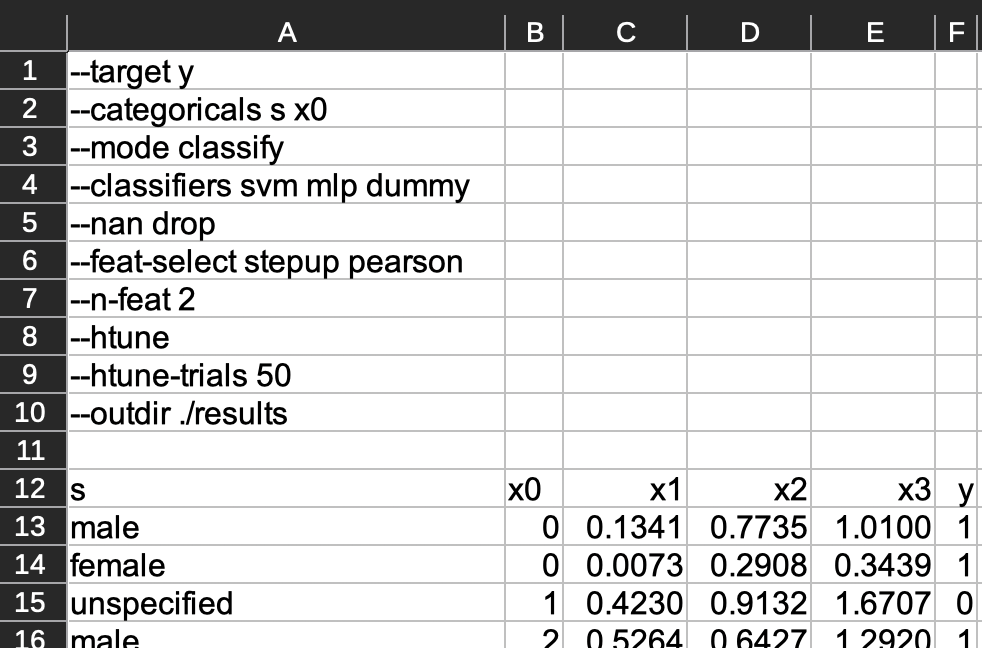
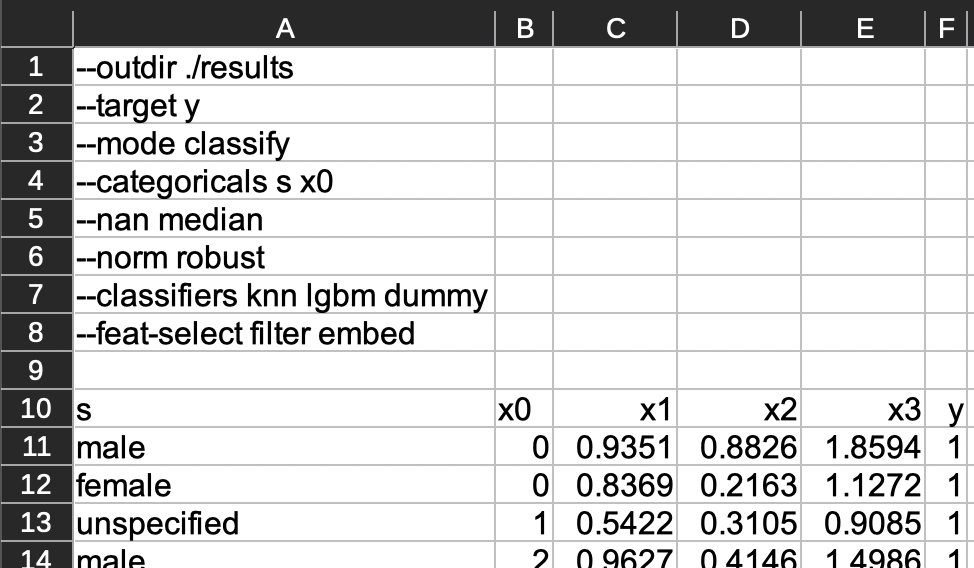
wip - README

Changed region(s): [[0.0, 0.0299, 1.0, 1.0]]

diff --git a/README.md b/README.md
@@ -131,23 +131,16 @@ Run a classification analysis on the data in `small_classifier_data.json`:
 
 ```bash
 python df-analyze.py \
-    --df data/small_classifier_data.json \
-    --mode classify \
-    --classifiers rf svm dtree \
-    --feat-select pca pearson none \
-    --n-feat 5 \
-    --test-val holdout \
-    --test-val-sizes 0.3 \
-    --outdir ./fast_test_results
+    --df=data/small_classifier_data.json \
+    --outdir=./demo_results \
+    --mode=classify \
+    --classifiers knn lgbm rf lr sgd mlp dummy \
+    --embed-select none linear lgbm \
+    --feat-select wrap filter embed
 ```
 
 should work and run quite quickly on the tiny toy dataset included in the repo.
-This will produce a lot of terminal output from Optuna, so if you don't want to
-see as much add the `--verbosity 0` option to above.
-
-Currently, `classifier` can be one of `svm`, `rf`, `mlp`, `bag` or `dtree`. If
-the `--step-up` argument is omitted, instead analyses for other feature
-selection methods are used.
+This will produce a lot of terminal output.
 
 ### Using a `df-analyze`-formatted Spreadsheet
 
@@ -169,16 +162,14 @@ Another valid Excel spreadsheet:
 Example of a `.csv` spreadsheet formatted for `df-analyze`:
 
 ```csv
---categoricals s x0
+--outdir ./results
 --target y
 --mode classify
---classifiers svm mlp dummy
---nan drop
---feat-select stepup pearson
---n-feat 2
---htune
---htune-trials 50
---outdir ./results
+--categoricals s x0
+--classifiers knn lgbm dummy
+--nan median
+--norm robust
+--feat-select wrap embed
 
 
 s,x0,x1,x2,x3,y
@@ -192,25 +183,23 @@ male,2,0.570184,0.289003,1.176338,1
 If you have not been introduced to command-line interfaces (CLIs) before,
 this convention might seem a bit odd, but `df-analyze` primarily functions as
 a CLI program. The logic is that CLI options (e.g. `--mode`) and their
-parameters or values (e.g. `classify`) are specified one-per-line in the file
-top section / header, with spaces separating parameters (e.g. the `svm mlp
-dummy` parameters passed to the `--classifiers` option), and with at least one
-empty line separating these options and parameters from the actual tabular
-data.
+parameters or values (e.g. the `classify` in `--mode classify`) are specified
+one-per-line in the file top section / header, with spaces separating
+parameters (e.g. the `knn lgbm dummy` parameters passed to the `--classifiers`
+option), and with at least one empty line separating these options and
+parameters from the actual tabular data.
 
 Thus, the following is an **INVALIDLY FORMATTED** spreadsheet:
 
 ```csv
---categoricals s x0
+--outdir ./results
 --target y
 --mode classify
---classifiers svm mlp dummy
---nan drop
---feat-select stepup pearson
---n-feat 2
---htune
---htune-trials 50
---outdir ./results
+--categoricals s x0
+--classifiers knn dummy
+--nan median
+--norm minmax
+--feat-select wrap filter none
 s,x0,x1,x2,x3,y
 male,0,0.739547,0.312496,1.129941,0
 female,0,0.094421,0.817089,1.246469,1
@@ -231,14 +220,19 @@ variants to be performed without requiring copies of the formatted data file.
 So for example:
 
 ```shell
-python df-analyze.py --spreadsheet spreadsheet.xlsx --n-feat 5
-python df-analyze.py --spreadsheet spreadsheet.xlsx --n-feat 10
-python df-analyze.py --spreadsheet spreadsheet.xlsx --n-feat 20
+python df-analyze.py --spreadsheet sheet.xlsx --outdir ./results --nan mean
+python df-analyze.py --spreadsheet sheet.xlsx --outdir ./results --nan median
+python df-analyze.py --spreadsheet sheet.xlsx --outdir ./results --nan impute
 ```
 
 would run three analyses with the options in `spreadsheet.xlsx` (or default
-values) but with `--n-feat` set to 5, 10, and 20, respectively, regardless of
-what is set for `--n-feat` in `spreadsheet.xlsx`.
+values) but with the handing of NaN value differing for each run, regardless
+of what is set for `--n-feat` in `spreadsheet.xlsx`. Note that the same
+output directory can be specified each time, as `df-analyze` will ensure that
+all results are saved to a separate subfolder (with a unique hash reflecting
+the unique combinations of options passed to `df-analyze`). This ensures data
+should be overwritten only if the exact same arguments are passed twice (e.g.
+perhaps if manually cleaning your data and re-running).
 
 ## Usage on Compute Canada / Digital Research Alliance of Canada / Slurm HPC Clusters
 
